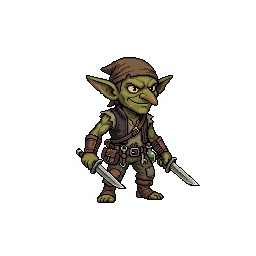
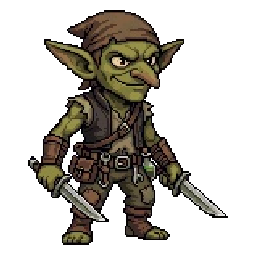
Strip white backgrounds and scale up player portrait art
- Flood-fill backdrop removal from image borders, crop to content, and
  scale figures to ~92% of the 256px canvas instead of leaving white margins
- Regenerate all fourteen race sprites with transparent backgrounds
- Bump HUD portrait zoom, map walker size, and combat/gathering stage scale

diff --git a/app_flutter/lib/src/ui/action_stage.dart b/app_flutter/lib/src/ui/action_stage.dart
@@ -14,6 +14,7 @@ import 'item_icon.dart';
 
 /// How tall a fighter, a gathering scene, or a workstation is drawn.
 const double _portraitHeight = 152;
+const double _playerStageScale = 1.2;
 
 /// How wide either half of the stage can get, so the two sprites stay shoulder
 /// to shoulder in the middle of a wide window instead of drifting apart.
@@ -106,6 +107,7 @@ class PvpActionStage extends StatelessWidget {
           bytes: youBytes,
           semanticsLabel: youName,
           alignment: Alignment.centerRight,
+          scale: _playerStageScale,
           overlay: !finished && youHit > 0
               ? _DamageFloater(
                   key: ValueKey('pvp-them-hit-$roundSeq'),
@@ -254,6 +256,7 @@ class _Portrait extends StatelessWidget {
     this.overlay,
     this.placeholder,
     this.flipX = false,
+    this.scale = 1,
   });
 
   final String? assetPath;
@@ -265,6 +268,7 @@ class _Portrait extends StatelessWidget {
 
   /// Arena opponents face the player. Damage numbers stay unflipped.
   final bool flipX;
+  final double scale;
 
   @override
   Widget build(BuildContext context) {
@@ -279,17 +283,20 @@ class _Portrait extends StatelessWidget {
           children: [
             ?placeholder,
             if (placeholder == null)
-              Transform.flip(
-                flipX: flipX,
-                child: bytes != null
-                    ? Image.memory(
-                        bytes!,
-                        fit: BoxFit.contain,
-                        alignment: alignment,
-                        filterQuality: FilterQuality.none,
-                        gaplessPlayback: true,
-                      )
-                    : GameImage(assetPath!, fit: BoxFit.contain, alignment: alignment),
+              Transform.scale(
+                scale: scale,
+                child: Transform.flip(
+                  flipX: flipX,
+                  child: bytes != null
+                      ? Image.memory(
+                          bytes!,
+                          fit: BoxFit.contain,
+                          alignment: alignment,
+                          filterQuality: FilterQuality.none,
+                          gaplessPlayback: true,
+                        )
+                      : GameImage(assetPath!, fit: BoxFit.contain, alignment: alignment),
+                ),
               ),
             ?overlay,
           ],
@@ -422,6 +429,7 @@ class _CombatStage extends StatelessWidget {
           bytes: controller.localPlayerPng,
           semanticsLabel: 'Adventurer',
           alignment: Alignment.centerRight,
+          scale: _playerStageScale,
           overlay: _playerFloaters(round, seq, showFloaters, controller.healPopup),
         ),
         scene: _Portrait(
@@ -627,6 +635,7 @@ class _GatheringStage extends StatelessWidget {
           bytes: controller.localPlayerPng,
           semanticsLabel: 'Adventurer',
           alignment: Alignment.centerRight,
+          scale: _playerStageScale,
         ),
         scene: _Portrait(
           assetPath: action == null ? null : actionAssetPath(action.actionId),
@@ -688,6 +697,7 @@ class _ProductionStage extends StatelessWidget {
           bytes: controller.localPlayerPng,
           semanticsLabel: 'Adventurer',
           alignment: Alignment.centerRight,
+          scale: _playerStageScale,
         ),
         scene: _Portrait(
           assetPath: workstationAssetPath(recipe?.facilityId),

diff --git a/app_flutter/lib/src/theme.dart b/app_flutter/lib/src/theme.dart
@@ -45,7 +45,7 @@ abstract final class Palette {
 }
 
 /// Zoom that fills a portrait window with the bundled sprite's head.
-const double playerPortraitHeadZoom = 1.55;
+const double playerPortraitHeadZoom = 1.72;
 
 /// Fine film grain tiled over panel fills, the HUD, and the chin.
 const String panelGrainAsset = 'assets/ui/panel-grain.png';

diff --git a/app_flutter/lib/src/ui/world_map_view.dart b/app_flutter/lib/src/ui/world_map_view.dart
@@ -18,7 +18,7 @@ import 'player_sprite.dart';
 const double mapNodeDotCenter = 15;
 
 /// Side of the walking sprite.
-const double mapWalkerSize = 28;
+const double mapWalkerSize = 36;
 
 /// The map: nodes over the map art, and a panel for whichever one is selected.
 class WorldMapView extends StatelessWidget {

diff --git a/scripts/import_player_race_sprites.py b/scripts/import_player_race_sprites.py
@@ -3,6 +3,7 @@
 
 from __future__ import annotations
 
+from collections import deque
 from pathlib import Path
 
 from PIL import Image
@@ -10,6 +11,9 @@ from PIL import Image
 ROOT = Path(__file__).resolve().parents[1]
 SRC = Path('/home/ubuntu/.cursor/projects/workspace/assets')
 DEST = ROOT / 'content/assets/player'
+
+CANVAS = 256
+FILL = 0.92  # fraction of the canvas the figure should occupy
 
 # Feminine + androgynous share one plate per race; masculine is separate.
 MAPPING: dict[str, str] = {
@@ -30,28 +34,100 @@ MAPPING: dict[str, str] = {
 }
 
 
-def strip_and_fit(src: Path, dest: Path) -> None:
-    img = Image.open(src).convert('RGBA')
-    img.thumbnail((256, 256), Image.Resampling.NEAREST)
-    canvas = Image.new('RGBA', (256, 256), (0, 0, 0, 0))
-    ox = (256 - img.width) // 2
-    oy = (256 - img.height) // 2
-    canvas.paste(img, (ox, oy), img)
-    pixels = canvas.load()
-    w, h = canvas.size
+def _bg_color(img: Image.Image) -> tuple[int, int, int]:
+    pixels = img.load()
+    w, h = img.size
     corners = [pixels[0, 0], pixels[w - 1, 0], pixels[0, h - 1], pixels[w - 1, h - 1]]
     opaque = [c for c in corners if c[3] > 200]
-    if opaque:
-        br = sum(c[0] for c in opaque) // len(opaque)
-        bg = sum(c[1] for c in opaque) // len(opaque)
-        bb = sum(c[2] for c in opaque) // len(opaque)
-        for y in range(h):
-            for x in range(w):
-                r, g, b, a = pixels[x, y]
-                if a < 10:
-                    continue
-                if abs(r - br) + abs(g - bg) + abs(b - bb) < 36:
-                    pixels[x, y] = (r, g, b, 0)
+    if not opaque:
+        return (255, 255, 255)
+    return (
+        sum(c[0] for c in opaque) // len(opaque),
+        sum(c[1] for c in opaque) // len(opaque),
+        sum(c[2] for c in opaque) // len(opaque),
+    )
+
+
+def _flood_clear_background(img: Image.Image, tolerance: int = 42) -> Image.Image:
+    """Remove the flat backdrop connected to the image border."""
+    img = img.convert('RGBA')
+    pixels = img.load()
+    w, h = img.size
+    br, bg, bb = _bg_color(img)
+
+    def matches_backdrop(r: int, g: int, b: int, a: int) -> bool:
+        if a < 8:
+            return True
+        return abs(r - br) + abs(g - bg) + abs(b - bb) < tolerance
+
+    seen = [[False] * w for _ in range(h)]
+    queue: deque[tuple[int, int]] = deque()
+
+    def try_seed(x: int, y: int) -> None:
+        if seen[y][x]:
+            return
+        seen[y][x] = True
+        r, g, b, a = pixels[x, y]
+        if matches_backdrop(r, g, b, a):
+            queue.append((x, y))
+
+    for x in range(w):
+        try_seed(x, 0)
+        try_seed(x, h - 1)
+    for y in range(h):
+        try_seed(0, y)
+        try_seed(w - 1, y)
+
+    while queue:
+        x, y = queue.popleft()
+        r, g, b, a = pixels[x, y]
+        dist = abs(r - br) + abs(g - bg) + abs(b - bb)
+        if dist < tolerance:
+            pixels[x, y] = (r, g, b, 0)
+        elif dist < tolerance + 28:
+            fade = int(a * (dist - tolerance) / 28)
+            pixels[x, y] = (r, g, b, fade)
+        for nx, ny in ((x + 1, y), (x - 1, y), (x, y + 1), (x, y - 1)):
+            if 0 <= nx < w and 0 <= ny < h and not seen[ny][nx]:
+                seen[ny][nx] = True
+                nr, ng, nb, na = pixels[nx, ny]
+                if matches_backdrop(nr, ng, nb, na):
+                    queue.append((nx, ny))
+
+    return img
+
+
+def _alpha_bbox(img: Image.Image, alpha_floor: int = 12) -> tuple[int, int, int, int]:
+    pixels = img.load()
+    w, h = img.size
+    min_x, min_y, max_x, max_y = w, h, -1, -1
+    for y in range(h):
+        for x in range(w):
+            if pixels[x, y][3] > alpha_floor:
+                min_x = min(min_x, x)
+                min_y = min(min_y, y)
+                max_x = max(max_x, x)
+                max_y = max(max_y, y)
+    if max_x < min_x:
+        return 0, 0, w, h
+    return min_x, min_y, max_x + 1, max_y + 1
+
+
+def strip_and_fit(src: Path, dest: Path) -> None:
+    img = _flood_clear_background(Image.open(src))
+    left, top, right, bottom = _alpha_bbox(img)
+    cropped = img.crop((left, top, right, bottom))
+
+    target = int(CANVAS * FILL)
+    scale = min(target / cropped.width, target / cropped.height)
+    new_w = max(1, int(round(cropped.width * scale)))
+    new_h = max(1, int(round(cropped.height * scale)))
+    scaled = cropped.resize((new_w, new_h), Image.Resampling.NEAREST)
+
+    canvas = Image.new('RGBA', (CANVAS, CANVAS), (0, 0, 0, 0))
+    ox = (CANVAS - new_w) // 2
+    oy = (CANVAS - new_h) // 2
+    canvas.paste(scaled, (ox, oy), scaled)
     dest.parent.mkdir(parents=True, exist_ok=True)
     canvas.save(dest, 'WEBP', lossless=True)
 
